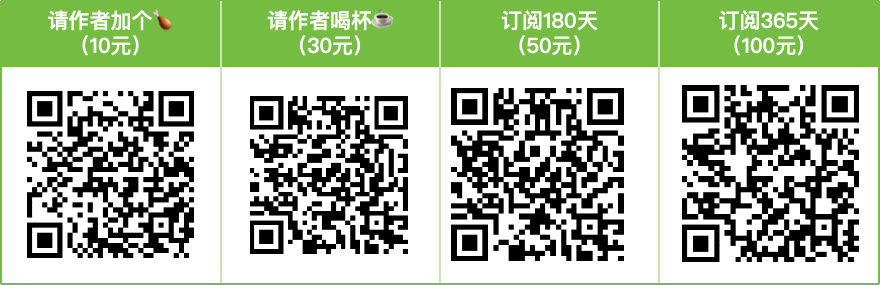
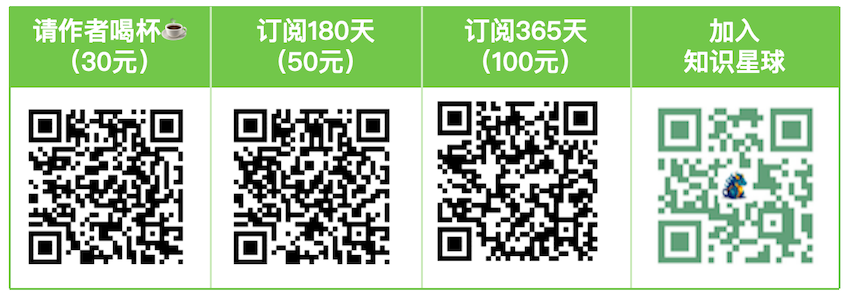
update readme.md

diff --git a/readme.md b/readme.md
@@ -71,20 +71,16 @@ Hikyuu Quant Framework是一款基于C++/Python的开源超高速量化交易研
 
 🎁 [**捐赠计划与附赠参见**：https://hikyuu.readthedocs.io/zh-cn/latest/vip/vip-plan.html](https://hikyuu.readthedocs.io/zh-cn/latest/vip/vip-plan.html)
 
-| 说明                   | 捐赠链接（与下方二维码同）                                      |
-| ---------------------- | --------------------------------------------------------------- |
-| 请作者加个🍗（10元）   | [https://pay.ldxp.cn/item/bet8w6](https://pay.ldxp.cn/item/bet8w6) |
-| 请作者喝杯☕（30元） | [https://pay.ldxp.cn/item/gflv3v](https://pay.ldxp.cn/item/gflv3v) |
-| 订阅180天（50元）      | [https://pay.ldxp.cn/item/du4h8s](https://pay.ldxp.cn/item/du4h8s) |
-| 订阅365天（100元）     | [https://pay.ldxp.cn/item/ehbz9b](https://pay.ldxp.cn/item/ehbz9b) |
+| 说明                                                       | 捐赠链接（与下方二维码同）                                      |
+| ---------------------------------------------------------- | --------------------------------------------------------------- |
+| 请作者喝杯☕（30元）                                     | [https://pay.ldxp.cn/item/gflv3v](https://pay.ldxp.cn/item/gflv3v) |
+| 订阅180天（50元）                                          | [https://pay.ldxp.cn/item/du4h8s](https://pay.ldxp.cn/item/du4h8s) |
+| 订阅365天（100元）                                         | [https://pay.ldxp.cn/item/ehbz9b](https://pay.ldxp.cn/item/ehbz9b) |
+| 加入星球<br />(3台设备及其他，<br />首年300元， 续费半价） | [https://t.zsxq.com/YSATD](https://t.zsxq.com/YSATD)               |
 
 ![img](docs/source/_static/dingyue.png)
 
-**👉👉👉 或者加入知识星球，获取更多 👉👉👉**
-
-![知识星球](docs/source/_static/zhishixingqiu.png)
-
-## ⭐ 来，点亮你的 star
+## ⭐ 支持项目，点亮你的星
 
 ![img](https://api.star-history.com/svg?repos=fasiondog/hikyuu&type=Date "Star History Chart")
 
